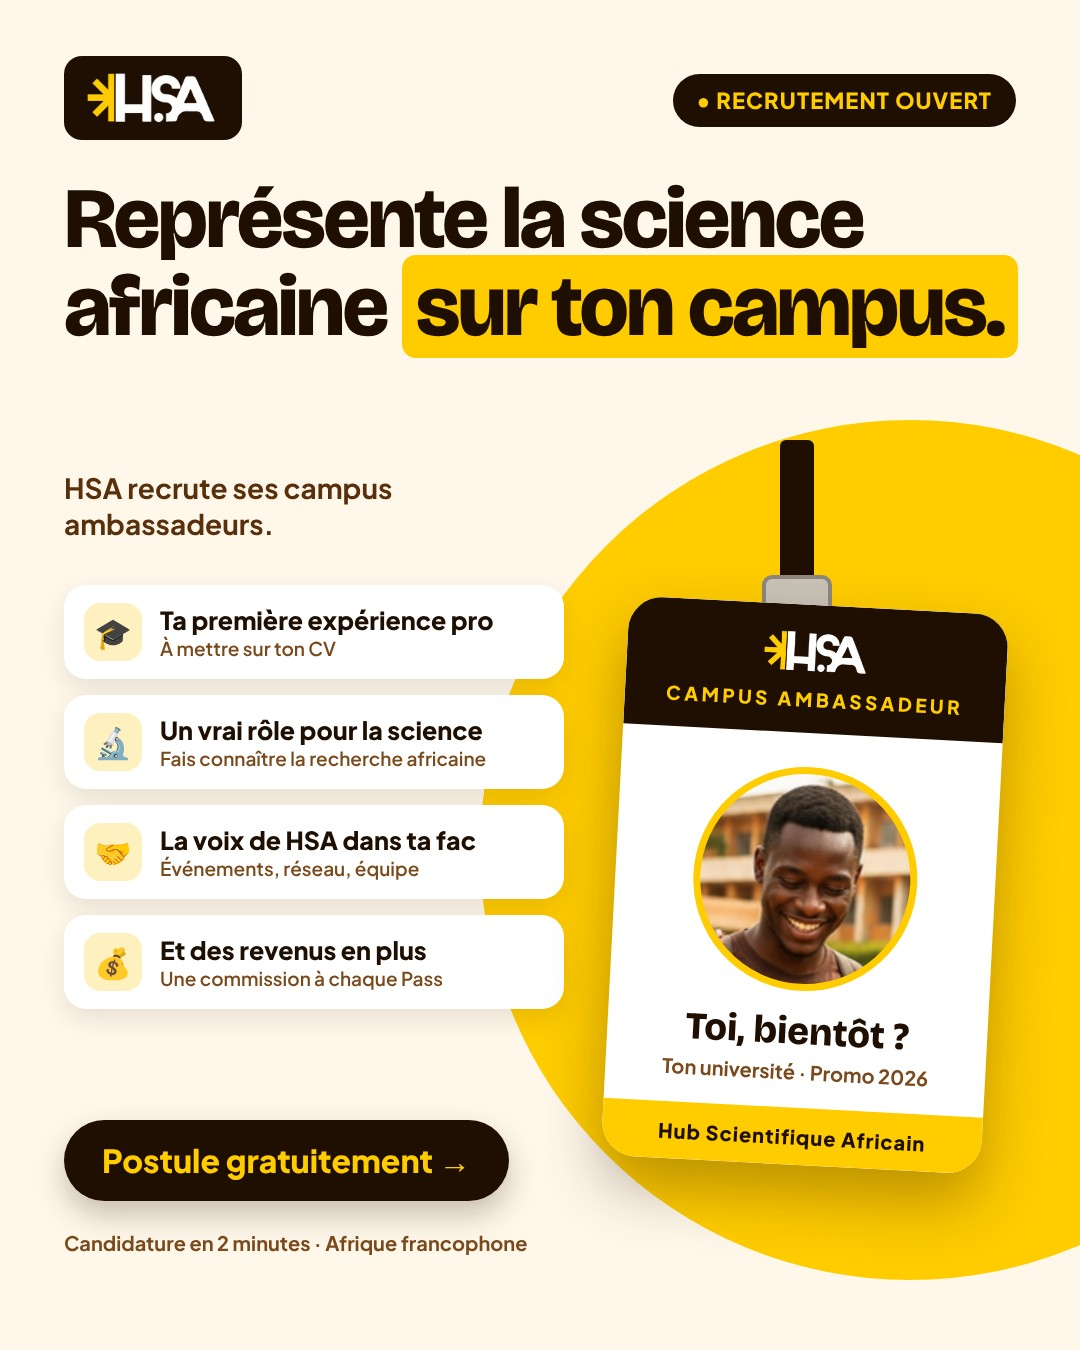
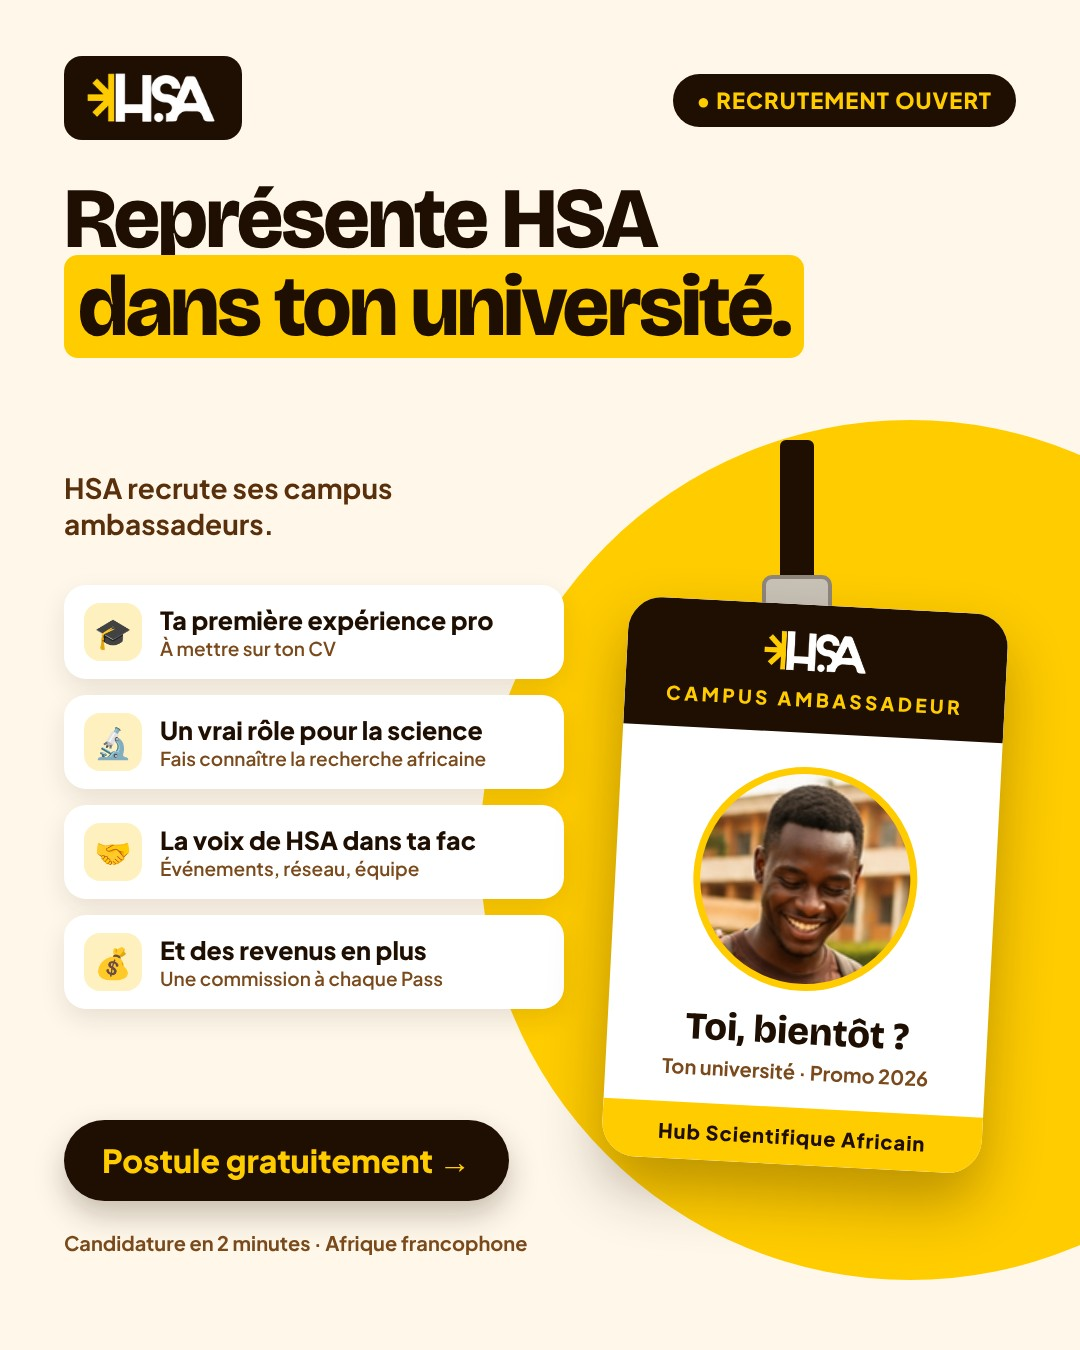
Pub ambassadeurs badge : Représente HSA dans ton université
Claude-Session: https://claude.ai/code/session_011emZ8TaaFVQzRwQab9bTSJ

Changed region(s): [[0.0611, 0.1244, 0.9472, 0.28]]

diff --git a/pages-capture/visuel-amb-badge.src.html b/pages-capture/visuel-amb-badge.src.html
@@ -31,7 +31,7 @@ h1 span{background:#ffcc00;border-radius:14px;padding:0 14px;box-decoration-brea
 <div class="rond"></div>
 <div class="logo"><img src="__LOGO__"></div>
 <div class="tag">● RECRUTEMENT OUVERT</div>
-<h1>Représente la science africaine <span>sur ton campus.</span></h1>
+<h1>Représente HSA<br><span>dans ton université.</span></h1>
 <div class="sous">HSA recrute ses campus ambassadeurs.</div>
 <div class="liste">
  <div class="it"><div class="ic">🎓</div><div class="t">Ta première expérience pro<small>À mettre sur ton CV</small></div></div>
